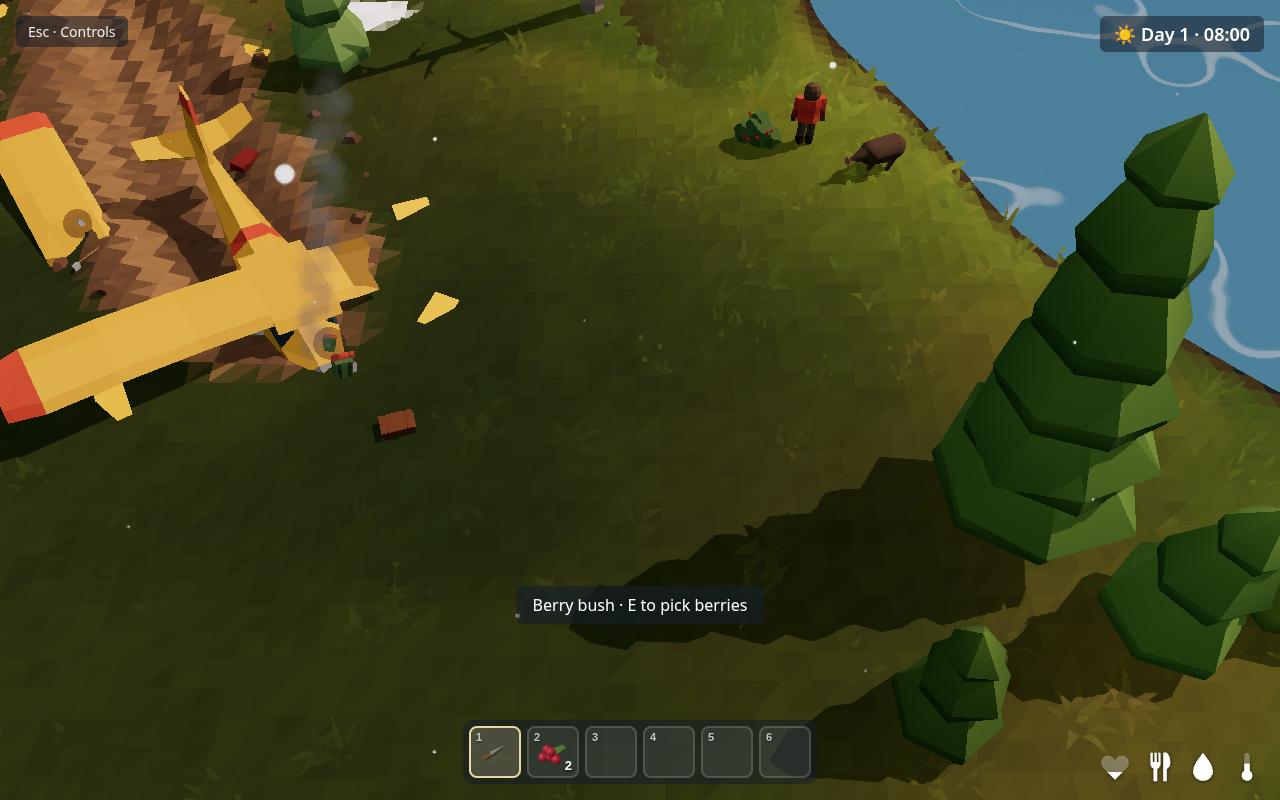
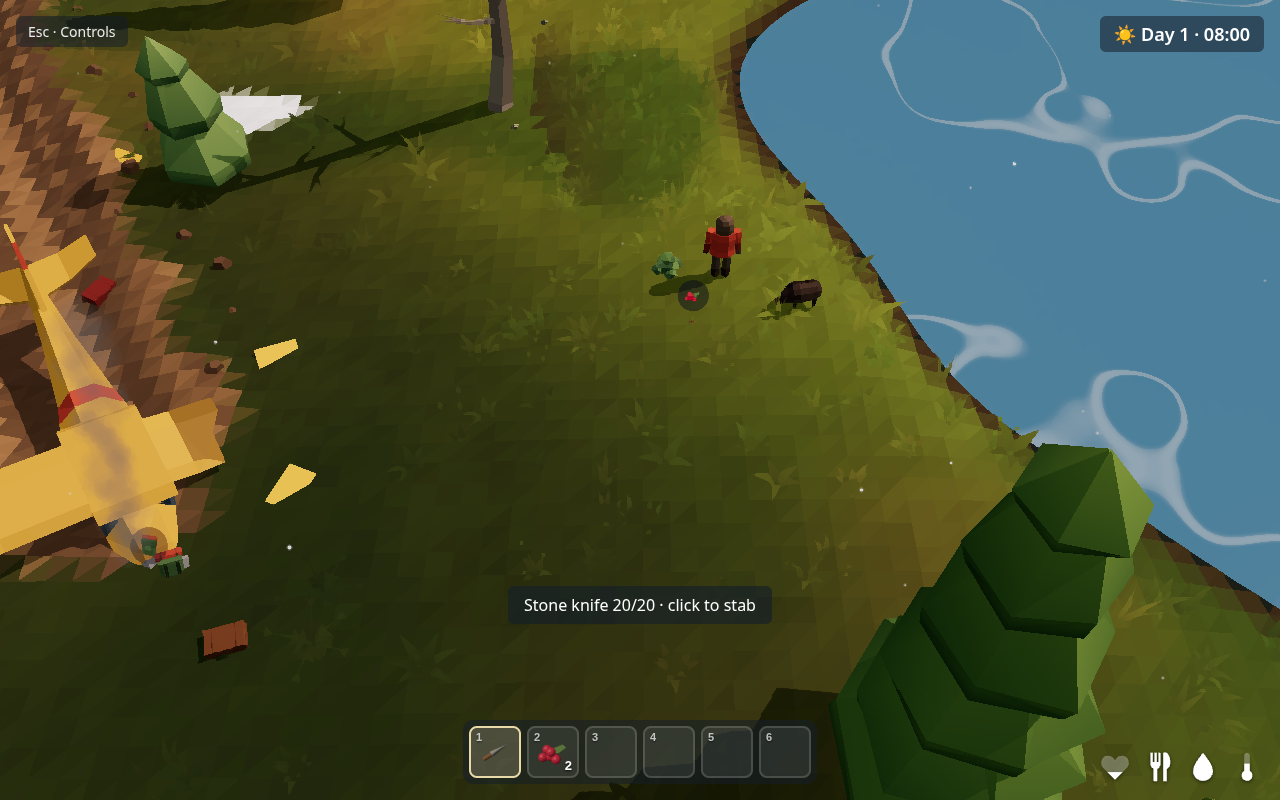
Use food-ladder art: static boar.glb glides with a bob (no clips), berry.glb for dropped berries; refresh preview

diff --git a/survival/src/animals.js b/survival/src/animals.js
@@ -122,6 +122,11 @@ export class Animals {
       child.frustumCulled = false;
     });
     animal.object.add(animal.body);
+    // Static models (boar.glb has no clips yet) just glide, with a little bob in animate().
+    if (!model.animations.some((clip) => clip.name.startsWith(`${animal.kind}-`))) {
+      animal.mixer = null;
+      return;
+    }
     animal.mixer = new THREE.AnimationMixer(animal.body);
     animal.clips = Object.fromEntries(
       model.animations
@@ -294,6 +299,11 @@ export class Animals {
       return;
     }
     const legs = animal.body.userData.legs;
+    if (!legs && animal.kind !== 'rabbit') {
+      // A static model without legs to swing: trot with a small bob instead.
+      animal.body.position.y = moving ? Math.abs(Math.sin(animal.gait * 1.2)) * 0.05 : 0;
+      return;
+    }
     if (animal.kind === 'rabbit') {
       animal.body.position.y = moving ? Math.abs(Math.sin(animal.gait * 1.4)) * 0.22 : 0;
     } else if (legs) {

diff --git a/survival/src/pickups.js b/survival/src/pickups.js
@@ -14,7 +14,8 @@ const GROUND_MODELS = {
   wood: [placeholders.logPile, 'logs'],
   axe: [placeholders.axeOnGround, 'axe-ground'],
   backpack: [placeholders.backpack, 'backpack'], // same mesh as the worn player-pack in player.glb (#67)
-  stone: [placeholders.stone, 'stone', 2.5], // stone.glb is life-size (~10 cm): scaled up to be visible
+  stone: [placeholders.stone, 'stone', 2.5],
+  berries: [placeholders.stone, 'berry', 4], // berry.glb is a single life-size berry: scaled up to be visible // stone.glb is life-size (~10 cm): scaled up to be visible
 };
 
 // Items lying on the ground (e.g. logs that didn't fit in your inventory),
